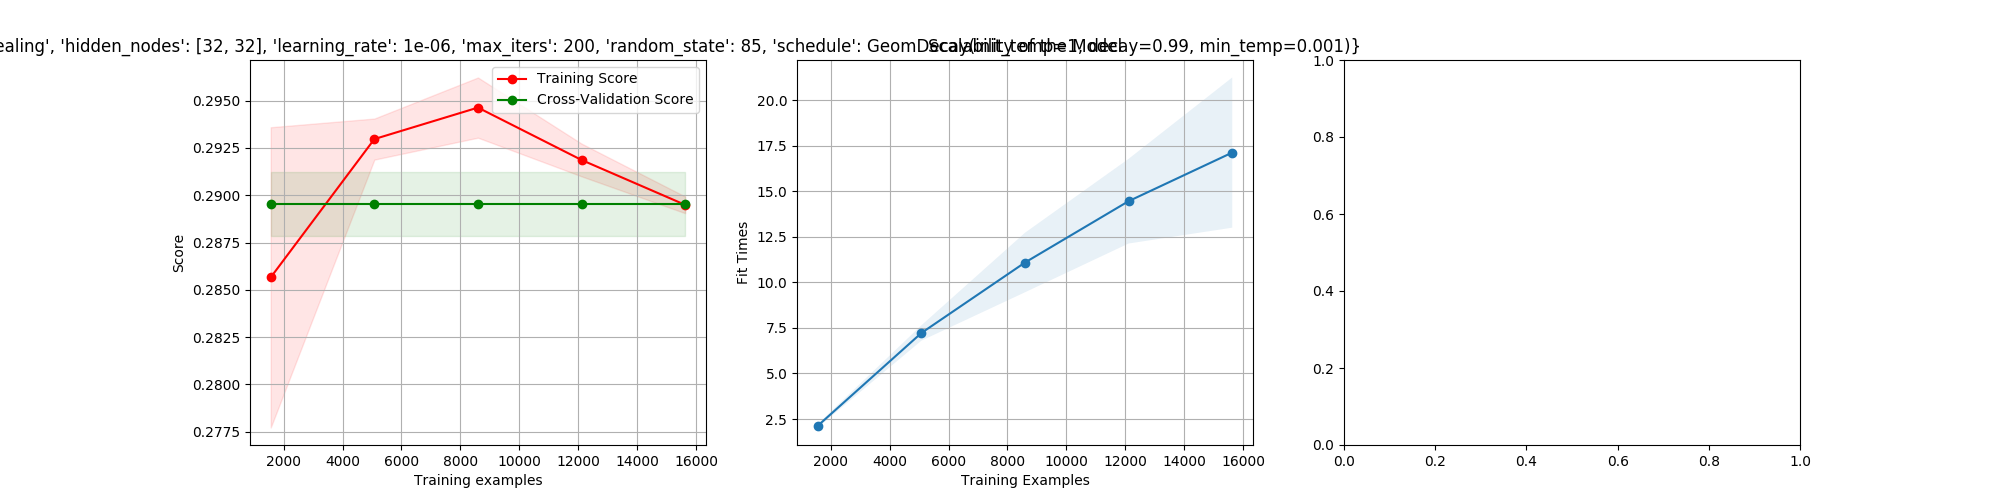
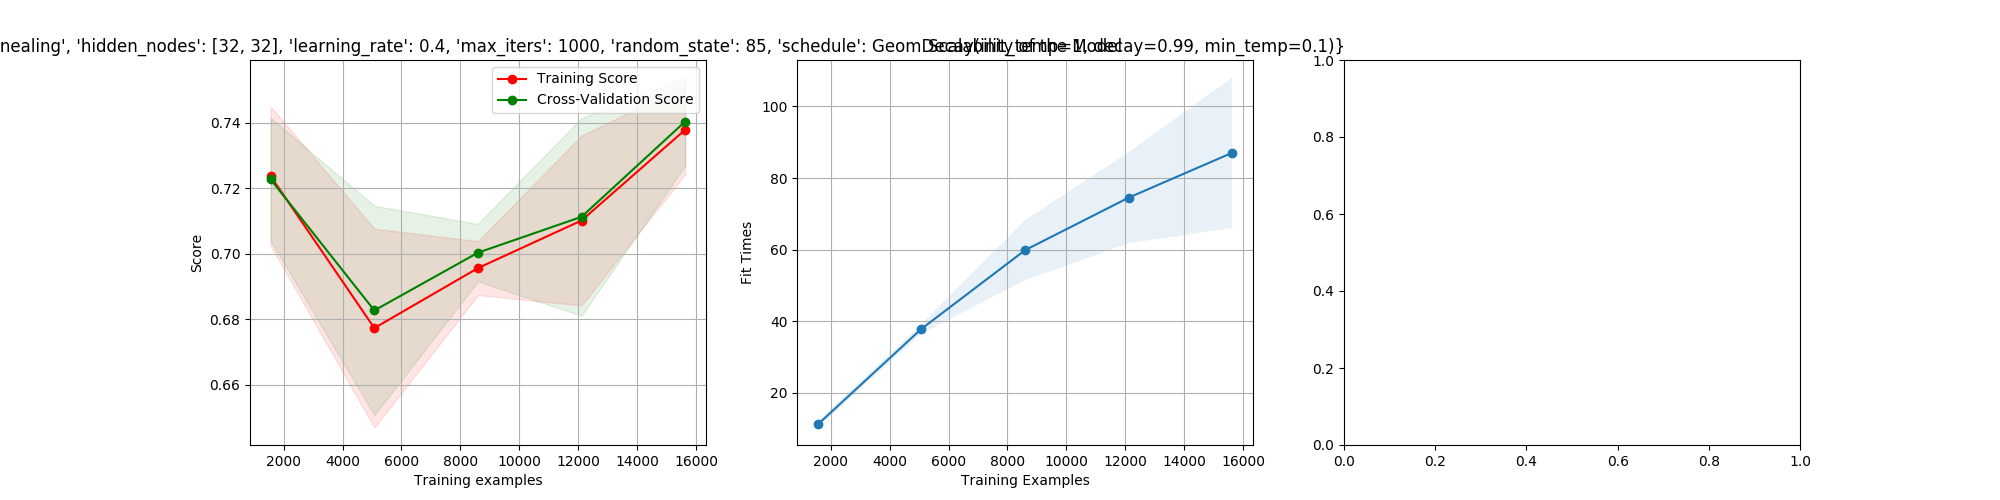
Tweaked some params

diff --git a/Code/artificial_neural_network.py b/Code/artificial_neural_network.py
@@ -15,22 +15,20 @@ def main():
     x_data, y_data = process_dataset.process_census_data()
     x_train, x_test, y_train, y_test = train_test_split(x_data, y_data, train_size=0.6, random_state=86)
 
-    ann = mlrose_hiive.NeuralNetwork(hidden_nodes=[32, 32], activation='relu', algorithm='gradient_descent',
-                                     max_iters=200, bias=True, is_classifier=True, learning_rate=0.001,
+    ann = mlrose_hiive.NeuralNetwork(hidden_nodes=[32, 32], activation='relu', algorithm='simulated_annealing',
+                                     max_iters=200, bias=True, is_classifier=True, learning_rate=0.5,
                                      max_attempts=200, early_stopping=False)
 
-    # ann.fit(x_train, y_train)
+    ann.fit(x_train, y_train)
 
     # check training set predictions
-    # y_train_pred = ann.predict(x_train)
+    y_train_pred = ann.predict(x_train)
 
-    # training_accuracy = accuracy_score(y_train, y_train_pred)
-    # print("Training Accuracy: " + str(training_accuracy))
+    training_accuracy = accuracy_score(y_train, y_train_pred)
+    print("Training Accuracy: " + str(training_accuracy))
 
-
-
-    figure = evaluate_model_learning_complexity.plot_learning_curve(ann, "ANN - Gradient Descent", x_train, y_train)
-    figure.savefig("ANN_Gradient_Descent.png")
+    # figure = evaluate_model_learning_complexity.plot_learning_curve(ann, "ANN - Gradient Descent", x_train, y_train)
+    # figure.savefig("ANN_Gradient_Descent.png")
 
 
 def ann_weights_genetic_alg():
@@ -114,8 +112,8 @@ def ann_weights_simulate_annealing():
     parameters = [
         {'algorithm': ['simulated_annealing'], 'hidden_nodes': [[32, 32]],
          'max_iters': [200, 1000],
-         'learning_rate': [0.000001], 'random_state':[85],
-         'schedule': [annealing_sched_a, annealing_sched_b, annealing_sched_c]}
+         'learning_rate': [0.4, 0.2], 'random_state':[85],
+         'schedule': [annealing_sched_b, annealing_sched_c]}
     ]
 
     grid_searcher = GridSearchCV(mlrose_hiive.NeuralNetwork(), parameters)
@@ -176,7 +174,7 @@ def ann_weights_randomized_hillclimbing():
     parameters = [
         {'algorithm': ['random_hill_climb'], 'hidden_nodes': [[32, 32]],
          'max_iters': [200, 500], 'random_state':[85],
-         'restarts': [10, 20], 'learning_rate': [0.000001]}
+         'restarts': [10], 'learning_rate': [0.3]}
     ]
 
     grid_searcher = GridSearchCV(mlrose_hiive.NeuralNetwork(), parameters)
@@ -289,8 +287,9 @@ def ann_weights_gradient_descent():
 
 
 if __name__ == '__main__':
+    # main()
     print("Starting simulated annealing")
-    ann_weights_simulate_annealing()
+    # ann_weights_simulate_annealing()
     print("Starting genetic algorithm")
     # ann_weights_genetic_alg()
     print("Starting random hillclimbing")
